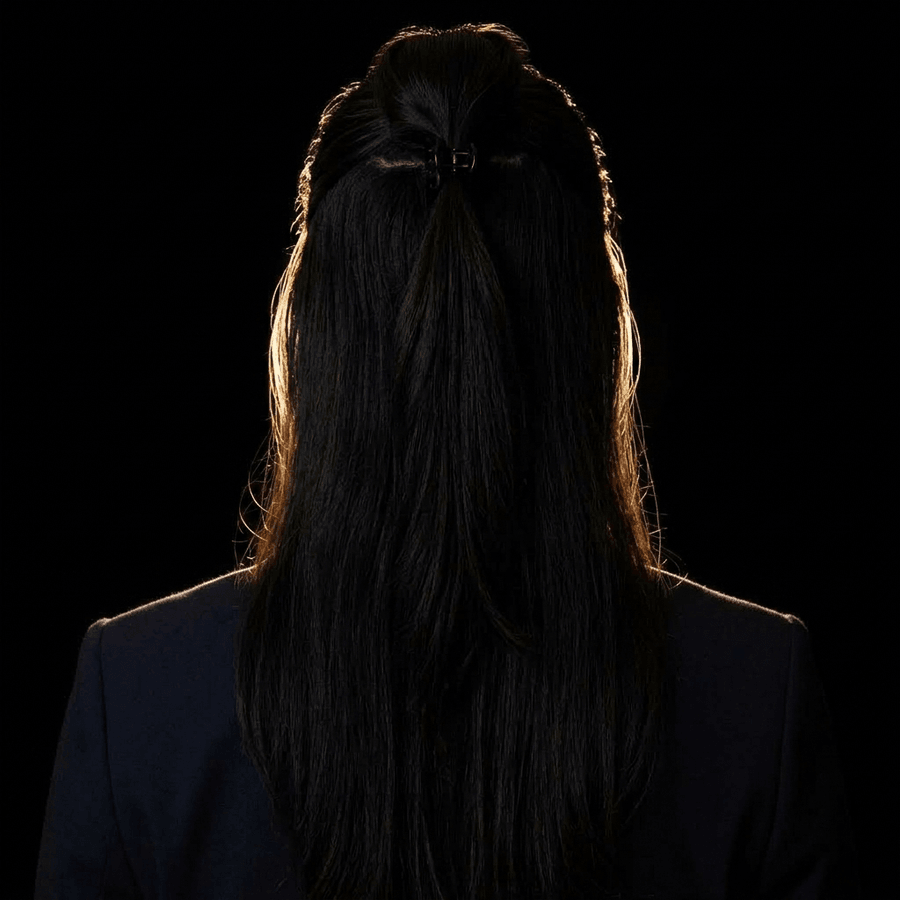
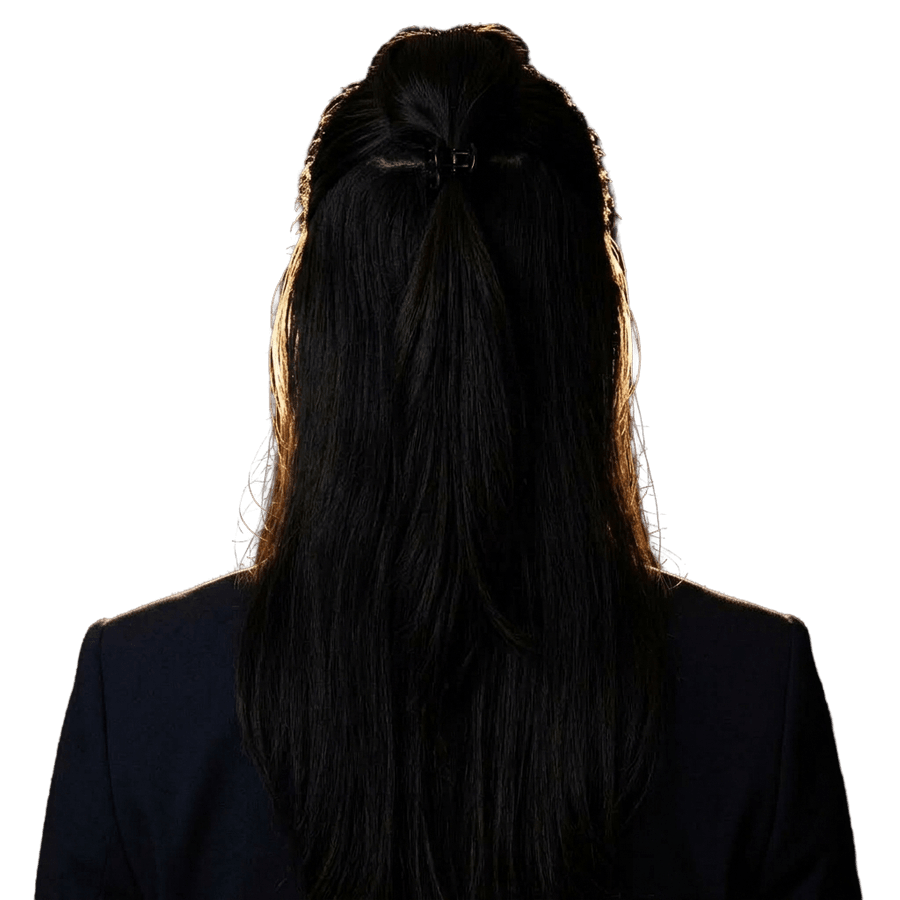
Rebuild Hero portrait rotation as scroll-driven with mission-text crossfade
Replace the hover/drag-driven portrait rotation with a scroll-pinned
sequence (front -> side -> rear) using real rim-lit photos, matching
the reference animation: the Hero section is pinned via sticky
positioning across a taller scroll track so the full turn plays out
while the section stays on screen, and the headline cross-fades into
the About bio as the subject turns away, with a light depth-of-field
blur pass through the middle of the turn.

Along the way, fixed a framer-motion 13.1 bug where hardware-accelerated
scroll transforms (opacity/filter/transform bindings) replay a
breakpoint sequence in reverse once scroll progress passes the last
declared breakpoint, instead of holding the final value — every
scroll-linked opacity transform now explicitly spans the full [0, 1]
progress range to avoid it.

diff --git a/src/components/HeroPortrait.tsx b/src/components/HeroPortrait.tsx
@@ -1,163 +1,92 @@
 "use client";
 
 import Image from "next/image";
-import { useRef } from "react";
-import { motion, useMotionValue, useSpring, useTransform, useReducedMotion } from "framer-motion";
+import { motion, useTransform, useReducedMotion, type MotionValue } from "framer-motion";
 
-// "turn" is a normalized, signed position of the rotation: 0 = facing
-// forward, +/-1 = fully turned to the side/back. Hover only ever nudges
-// within HOVER_RANGE (front photo stays fully opaque there, just tilts a
-// little for life); dragging unlocks the full front -> side -> back sweep.
-const HOVER_RANGE = 0.25;
-const DRAG_RANGE = 1;
-const TILT_DEG = 22;
-
-// The source photos are plain opaque squares (near-black studio
-// background, no real alpha channel -- attempting to key out the
-// background per-pixel kept eating into dark hair strands). Instead,
-// fade the photo's own rectangular edges into the page with a purely
-// geometric mask, so the boundary dissolves rather than reading as a
-// hard-edged box.
-const PORTRAIT_MASK =
-  "radial-gradient(ellipse 92% 88% at 50% 60%, black 38%, transparent 100%)";
+const TILT_DEG = 26;
 
 export default function HeroPortrait({
   front,
   side,
   rear,
   alt,
+  progress,
 }: {
   front: string;
   side: string;
   rear: string;
   alt: string;
+  progress: MotionValue<number>;
 }) {
-  const containerRef = useRef<HTMLDivElement>(null);
-  const isDragging = useRef(false);
-  const dragStartX = useRef(0);
-  const dragStartTurn = useRef(0);
   const prefersReducedMotion = useReducedMotion();
 
-  const turn = useMotionValue(0);
-  const turnSpring = useSpring(turn, { stiffness: 130, damping: 20, mass: 0.6 });
-  const absTurn = useTransform(turnSpring, (v) => Math.abs(v));
+  // Breakpoint arrays deliberately span the full [0, 1] scroll range —
+  // framer-motion's hardware-accelerated scroll transforms (used for
+  // opacity/filter/transform style bindings) mishandle ranges that stop
+  // short of 1, replaying the sequence in reverse for the remainder
+  // instead of holding the last value.
+  const rotateY = useTransform(progress, [0, 1], [0, TILT_DEG]);
+  const frontOpacity = useTransform(progress, [0, 0.3, 0.5, 1], [1, 1, 0, 0]);
+  const sideOpacity = useTransform(progress, [0, 0.3, 0.55, 0.8, 1], [0, 0, 1, 0, 0]);
+  const rearOpacity = useTransform(progress, [0, 0.6, 0.85, 1], [0, 0, 1, 1]);
+  // A light camera "refocus" pass through the middle of the turn.
+  const blur = useTransform(progress, [0, 0.35, 0.5, 0.65, 1], [0, 3, 4, 3, 0]);
+  const filter = useTransform(blur, (b) => `blur(${b}px)`);
 
-  const rotateY = useTransform(turnSpring, [-1, 1], [-TILT_DEG, TILT_DEG]);
-  const frontOpacity = useTransform(absTurn, [0, 0.3, 0.5], [1, 1, 0]);
-  const sideRightOpacity = useTransform(turnSpring, [0.3, 0.55, 0.8], [0, 1, 0]);
-  const sideLeftOpacity = useTransform(turnSpring, [-0.8, -0.55, -0.3], [0, 1, 0]);
-  const rearOpacity = useTransform(absTurn, [0.6, 0.85, 1], [0, 1, 1]);
-
-  function hoverTargetFor(clientX: number) {
-    if (!containerRef.current) return 0;
-    const rect = containerRef.current.getBoundingClientRect();
-    const relX = (clientX - rect.left) / rect.width - 0.5;
-    return Math.max(-HOVER_RANGE, Math.min(HOVER_RANGE, relX * HOVER_RANGE * 2));
-  }
-
-  function handlePointerMove(e: React.PointerEvent<HTMLDivElement>) {
-    if (prefersReducedMotion || !containerRef.current) return;
-    if (isDragging.current) {
-      const rect = containerRef.current.getBoundingClientRect();
-      const deltaX = e.clientX - dragStartX.current;
-      const next = dragStartTurn.current + (deltaX / (rect.width * 0.7)) * DRAG_RANGE;
-      turn.set(Math.max(-DRAG_RANGE, Math.min(DRAG_RANGE, next)));
-    } else {
-      turn.set(hoverTargetFor(e.clientX));
-    }
-  }
-
-  function handlePointerDown(e: React.PointerEvent<HTMLDivElement>) {
-    if (prefersReducedMotion) return;
-    isDragging.current = true;
-    dragStartX.current = e.clientX;
-    dragStartTurn.current = turn.get();
-    e.currentTarget.setPointerCapture(e.pointerId);
-  }
-
-  function handlePointerUp(e: React.PointerEvent<HTMLDivElement>) {
-    isDragging.current = false;
-    turn.set(prefersReducedMotion ? 0 : hoverTargetFor(e.clientX));
-    if (e.currentTarget.hasPointerCapture(e.pointerId)) {
-      e.currentTarget.releasePointerCapture(e.pointerId);
-    }
-  }
-
-  function handlePointerLeave() {
-    if (!isDragging.current) turn.set(0);
+  if (prefersReducedMotion) {
+    return (
+      <div className="relative h-full w-full">
+        <Image
+          src={front}
+          alt={alt}
+          fill
+          priority
+          sizes="(max-width: 1024px) 380px, 480px"
+          className="object-contain object-bottom drop-shadow-2xl"
+          unoptimized
+        />
+      </div>
+    );
   }
 
   return (
-    <div
-      ref={containerRef}
-      data-cursor-hover
-      onPointerMove={handlePointerMove}
-      onPointerDown={handlePointerDown}
-      onPointerUp={handlePointerUp}
-      onPointerCancel={handlePointerUp}
-      onPointerLeave={handlePointerLeave}
-      className="relative h-full w-full touch-none select-none cursor-grab active:cursor-grabbing"
+    <motion.div
+      style={{ rotateY, filter, transformPerspective: 1200 }}
+      className="relative h-full w-full"
     >
-      <motion.div
-        style={{ rotateY, transformPerspective: 1200 }}
-        className="relative h-full w-full"
-      >
-        <motion.div style={{ opacity: frontOpacity }} className="absolute inset-0">
-          <Image
-            src={front}
-            alt={alt}
-            fill
-            priority
-            sizes="(max-width: 1024px) 380px, 480px"
-            className="object-contain object-bottom drop-shadow-2xl"
-            style={{ maskImage: PORTRAIT_MASK, WebkitMaskImage: PORTRAIT_MASK }}
-            unoptimized
-            draggable={false}
-          />
-        </motion.div>
-        <motion.div style={{ opacity: sideRightOpacity }} className="absolute inset-0">
-          <Image
-            src={side}
-            alt=""
-            aria-hidden
-            fill
-            sizes="(max-width: 1024px) 380px, 480px"
-            className="object-contain object-bottom drop-shadow-2xl"
-            style={{ maskImage: PORTRAIT_MASK, WebkitMaskImage: PORTRAIT_MASK }}
-            unoptimized
-            draggable={false}
-          />
-        </motion.div>
-        <motion.div
-          style={{ opacity: sideLeftOpacity, transform: "scaleX(-1)" }}
-          className="absolute inset-0"
-        >
-          <Image
-            src={side}
-            alt=""
-            aria-hidden
-            fill
-            sizes="(max-width: 1024px) 380px, 480px"
-            className="object-contain object-bottom drop-shadow-2xl"
-            style={{ maskImage: PORTRAIT_MASK, WebkitMaskImage: PORTRAIT_MASK }}
-            unoptimized
-            draggable={false}
-          />
-        </motion.div>
-        <motion.div style={{ opacity: rearOpacity }} className="absolute inset-0">
-          <Image
-            src={rear}
-            alt=""
-            aria-hidden
-            fill
-            sizes="(max-width: 1024px) 380px, 480px"
-            className="object-contain object-bottom drop-shadow-2xl"
-            style={{ maskImage: PORTRAIT_MASK, WebkitMaskImage: PORTRAIT_MASK }}
-            unoptimized
-            draggable={false}
-          />
-        </motion.div>
+      <motion.div style={{ opacity: frontOpacity }} className="absolute inset-0">
+        <Image
+          src={front}
+          alt={alt}
+          fill
+          priority
+          sizes="(max-width: 1024px) 380px, 480px"
+          className="object-contain object-bottom drop-shadow-2xl"
+          unoptimized
+        />
       </motion.div>
-    </div>
+      <motion.div style={{ opacity: sideOpacity }} className="absolute inset-0">
+        <Image
+          src={side}
+          alt=""
+          aria-hidden
+          fill
+          sizes="(max-width: 1024px) 380px, 480px"
+          className="object-contain object-bottom drop-shadow-2xl"
+          unoptimized
+        />
+      </motion.div>
+      <motion.div style={{ opacity: rearOpacity }} className="absolute inset-0">
+        <Image
+          src={rear}
+          alt=""
+          aria-hidden
+          fill
+          sizes="(max-width: 1024px) 380px, 480px"
+          className="object-contain object-bottom drop-shadow-2xl"
+          unoptimized
+        />
+      </motion.div>
+    </motion.div>
   );
 }

diff --git a/src/components/Hero.tsx b/src/components/Hero.tsx
@@ -1,7 +1,8 @@
 "use client";
 
+import { useRef } from "react";
 import Link from "next/link";
-import { motion } from "framer-motion";
+import { motion, useScroll, useTransform, useReducedMotion } from "framer-motion";
 import {
   ArrowDown,
   ArrowUpRight,
@@ -18,6 +19,22 @@ import { useT } from "@/lib/LanguageContext";
 
 export default function Hero() {
   const t = useT();
+  const sectionRef = useRef<HTMLElement>(null);
+  const prefersReducedMotion = useReducedMotion();
+  const { scrollYProgress } = useScroll({
+    target: sectionRef,
+    offset: ["start start", "end end"],
+  });
+
+  // Breakpoint arrays deliberately span the full [0, 1] scroll range —
+  // framer-motion's hardware-accelerated scroll transforms (used for
+  // opacity/filter/transform style bindings) mishandle ranges that stop
+  // short of 1, replaying the sequence in reverse for the remainder
+  // instead of holding the last value.
+  const initialOpacity = useTransform(scrollYProgress, [0, 0.3, 0.5, 1], [1, 1, 0, 0]);
+  const initialY = useTransform(scrollYProgress, [0, 0.5, 1], [0, -24, -24]);
+  const missionOpacity = useTransform(scrollYProgress, [0, 0.55, 0.8, 1], [0, 0, 1, 1]);
+  const missionY = useTransform(scrollYProgress, [0, 0.55, 1], [24, 24, 0]);
 
   const badges = [
     {
@@ -48,9 +65,15 @@ export default function Hero() {
 
   return (
     <section
+      ref={sectionRef}
       id="top"
-      className="relative flex min-h-[100svh] flex-col overflow-hidden bg-background px-6 pb-8 pt-28 sm:px-10 sm:pb-10 lg:px-16"
+      className={`relative ${prefersReducedMotion ? "" : "min-h-[240svh]"}`}
     >
+      <div
+        className={`${
+          prefersReducedMotion ? "" : "sticky top-0"
+        } flex min-h-[100svh] flex-col overflow-hidden bg-background px-6 pb-8 pt-28 sm:px-10 sm:pb-10 lg:px-16`}
+      >
       {/* Soft mesh-gradient wash — muted echo of the pastel blob in the
           Figma "About me" cover, tuned down for dark mode instead of one
           flat saturated purple panel. */}
@@ -89,40 +112,69 @@ export default function Hero() {
       <div className="relative z-10 mx-auto grid w-full max-w-6xl flex-1 items-center gap-16 lg:grid-cols-[1.05fr_0.95fr] lg:gap-10">
         {/* Left — copy */}
         <div>
-          <motion.p
-            initial={{ opacity: 0, y: 8 }}
-            animate={{ opacity: 1, y: 0 }}
-            transition={{ duration: 0.6, delay: 0.1 }}
-            className="mb-3 text-sm font-medium uppercase tracking-[0.25em] text-white/60"
-          >
-            {t.hero.eyebrow}
-          </motion.p>
+          <div className="grid">
+            {/* Initial headline — fades out as the portrait turns */}
+            <motion.div
+              style={
+                prefersReducedMotion ? undefined : { opacity: initialOpacity, y: initialY }
+              }
+              className="[grid-area:1/1]"
+            >
+              <motion.p
+                initial={{ opacity: 0, y: 8 }}
+                animate={{ opacity: 1, y: 0 }}
+                transition={{ duration: 0.6, delay: 0.1 }}
+                className="mb-3 text-sm font-medium uppercase tracking-[0.25em] text-white/60"
+              >
+                {t.hero.eyebrow}
+              </motion.p>
 
-          <h1 className="font-display text-4xl font-bold leading-[1.05] tracking-tight text-white sm:text-5xl lg:text-6xl">
-            <RevealWords text={t.hero.greeting} className="block text-white/70" />
-            <RevealWords text="Wided Rouatbi" className="block text-gradient" />
-          </h1>
+              <h1 className="font-display text-4xl font-bold leading-[1.05] tracking-tight text-white sm:text-5xl lg:text-6xl">
+                <RevealWords text={t.hero.greeting} className="block text-white/70" />
+                <RevealWords text="Wided Rouatbi" className="block text-gradient" />
+              </h1>
 
-          <motion.div
-            initial={{ opacity: 0, scale: 0.9 }}
-            animate={{ opacity: 1, scale: 1 }}
-            transition={{ duration: 0.5, delay: 0.5 }}
-            className="mt-5 inline-flex items-center gap-2 rounded-2xl border border-white/10 bg-surface/90 px-4 py-2.5 shadow-xl backdrop-blur-md"
-          >
-            <Palette className="h-4 w-4 text-violet" />
-            <span className="text-sm font-semibold text-white">
-              {t.hero.role}
-            </span>
-          </motion.div>
+              <motion.div
+                initial={{ opacity: 0, scale: 0.9 }}
+                animate={{ opacity: 1, scale: 1 }}
+                transition={{ duration: 0.5, delay: 0.5 }}
+                className="mt-5 inline-flex items-center gap-2 rounded-2xl border border-white/10 bg-surface/90 px-4 py-2.5 shadow-xl backdrop-blur-md"
+              >
+                <Palette className="h-4 w-4 text-violet" />
+                <span className="text-sm font-semibold text-white">
+                  {t.hero.role}
+                </span>
+              </motion.div>
 
-          <motion.p
-            initial={{ opacity: 0, y: 16 }}
-            animate={{ opacity: 1, y: 0 }}
-            transition={{ duration: 0.7, delay: 0.6 }}
-            className="mt-6 max-w-lg text-base leading-relaxed text-white/70 sm:text-lg"
-          >
-            {t.hero.bio}
-          </motion.p>
+              <motion.p
+                initial={{ opacity: 0, y: 16 }}
+                animate={{ opacity: 1, y: 0 }}
+                transition={{ duration: 0.7, delay: 0.6 }}
+                className="mt-6 max-w-lg text-base leading-relaxed text-white/70 sm:text-lg"
+              >
+                {t.hero.bio}
+              </motion.p>
+            </motion.div>
+
+            {/* Mission statement — fades in as the portrait turns away */}
+            {!prefersReducedMotion && (
+              <motion.div
+                style={{ opacity: missionOpacity, y: missionY }}
+                className="pointer-events-none [grid-area:1/1]"
+              >
+                <p className="mb-3 text-sm font-medium uppercase tracking-[0.25em] text-white/60">
+                  {t.hero.eyebrow}
+                </p>
+                <h2 className="font-display text-4xl font-bold leading-[1.05] tracking-tight text-white sm:text-5xl lg:text-6xl">
+                  {t.about.leadPrefix}
+                  <span className="text-gradient">{t.about.leadHighlight}</span>
+                </h2>
+                <p className="mt-6 max-w-lg text-base leading-relaxed text-white/70 sm:text-lg">
+                  {t.about.bio}
+                </p>
+              </motion.div>
+            )}
+          </div>
 
           <motion.div
             initial={{ opacity: 0, y: 16 }}
@@ -183,6 +235,7 @@ export default function Hero() {
             side="/images/profile-side.png"
             rear="/images/profile-rear.png"
             alt="Portrait de Wided Rouatbi"
+            progress={scrollYProgress}
           />
 
           {badges.map((b) => (
@@ -235,6 +288,7 @@ export default function Hero() {
           <ArrowDown className="h-4 w-4" />
         </motion.span>
       </motion.a>
+      </div>
     </section>
   );
 }
